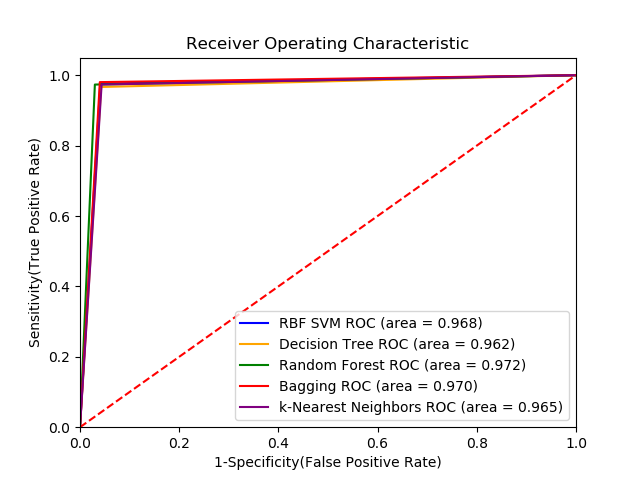
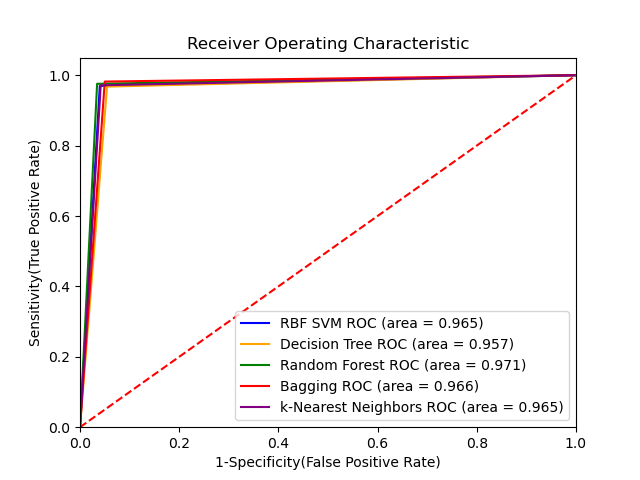
Fix feature selection

diff --git a/clf.py b/clf.py
@@ -14,6 +14,7 @@ from sklearn.tree import DecisionTreeClassifier
 from sklearn.ensemble import RandomForestClassifier, BaggingClassifier
 from sklearn.naive_bayes import MultinomialNB
 from sklearn.svm import LinearSVC, SVC
+from sklearn.preprocessing import Normalizer
 
 
 g = open('log/result.txt', mode='w+')
@@ -24,20 +25,26 @@ g.write('Size of data before Feature selection: ' + str(X.shape) + '\n')
 g.write('Number of Malware samples: ' + str(X[y == 1].shape[0]) + '\n')
 g.write('Number of Benign samples: ' + str(X[y == -1].shape[0]) + '\n')
 
+# Split data
+X_train, X_test, y_train, y_test = train_test_split(
+    X, y, test_size=.3, random_state=42)
+print(X_train.shape, X_test.shape)
+
 # Feature selection
 tick = time.time()
 g.write('-' * 54 + '\n')
 model = SelectFromModel(
-    LinearSVC(penalty="l1", dual=False, random_state=42).fit(X, y), prefit=True)
-X = model.transform(X)
-g.write('Size of data after Feature selection: ' + str(X.shape) + '\n')
+    LinearSVC(penalty="l1", dual=False, random_state=42).fit(X_train, y_train), prefit=True)
+X_train = model.transform(X_train)
+X_test = model.transform(X_test)
+g.write('Size of training data after Feature selection: ' + str(X_train.shape) + '\n')
 g.write('Feature selection done in %0.2f sec\n' % (time.time() - tick))
 g.write('-' * 54 + '\n')
 
-# Split data
-X_train, X_test, y_train, y_test = train_test_split(
-    X, y, test_size=.3, random_state=42)
-
+scaler = Normalizer()
+X_train = scaler.fit_transform(X_train)
+X_test = scaler.transform(X_test)
+print(X_train.shape, X_test.shape)
 
 names = ["RBF SVM", "Decision Tree", "Random Forest",
          "Bagging", "k-Nearest Neighbors"]
@@ -45,9 +52,9 @@ names = ["RBF SVM", "Decision Tree", "Random Forest",
 classifiers = [
     SVC(kernel='rbf', class_weight='balanced'),
     DecisionTreeClassifier(random_state=42, class_weight='balanced'),
-    RandomForestClassifier(random_state=42, class_weight='balanced'),
-    BaggingClassifier(random_state=42),
-    KNeighborsClassifier()
+    RandomForestClassifier(random_state=42, class_weight='balanced', n_jobs=-1),
+    BaggingClassifier(random_state=42, n_jobs=-1),
+    KNeighborsClassifier(n_jobs=-1)
 ]
 
 hyperparam = [
